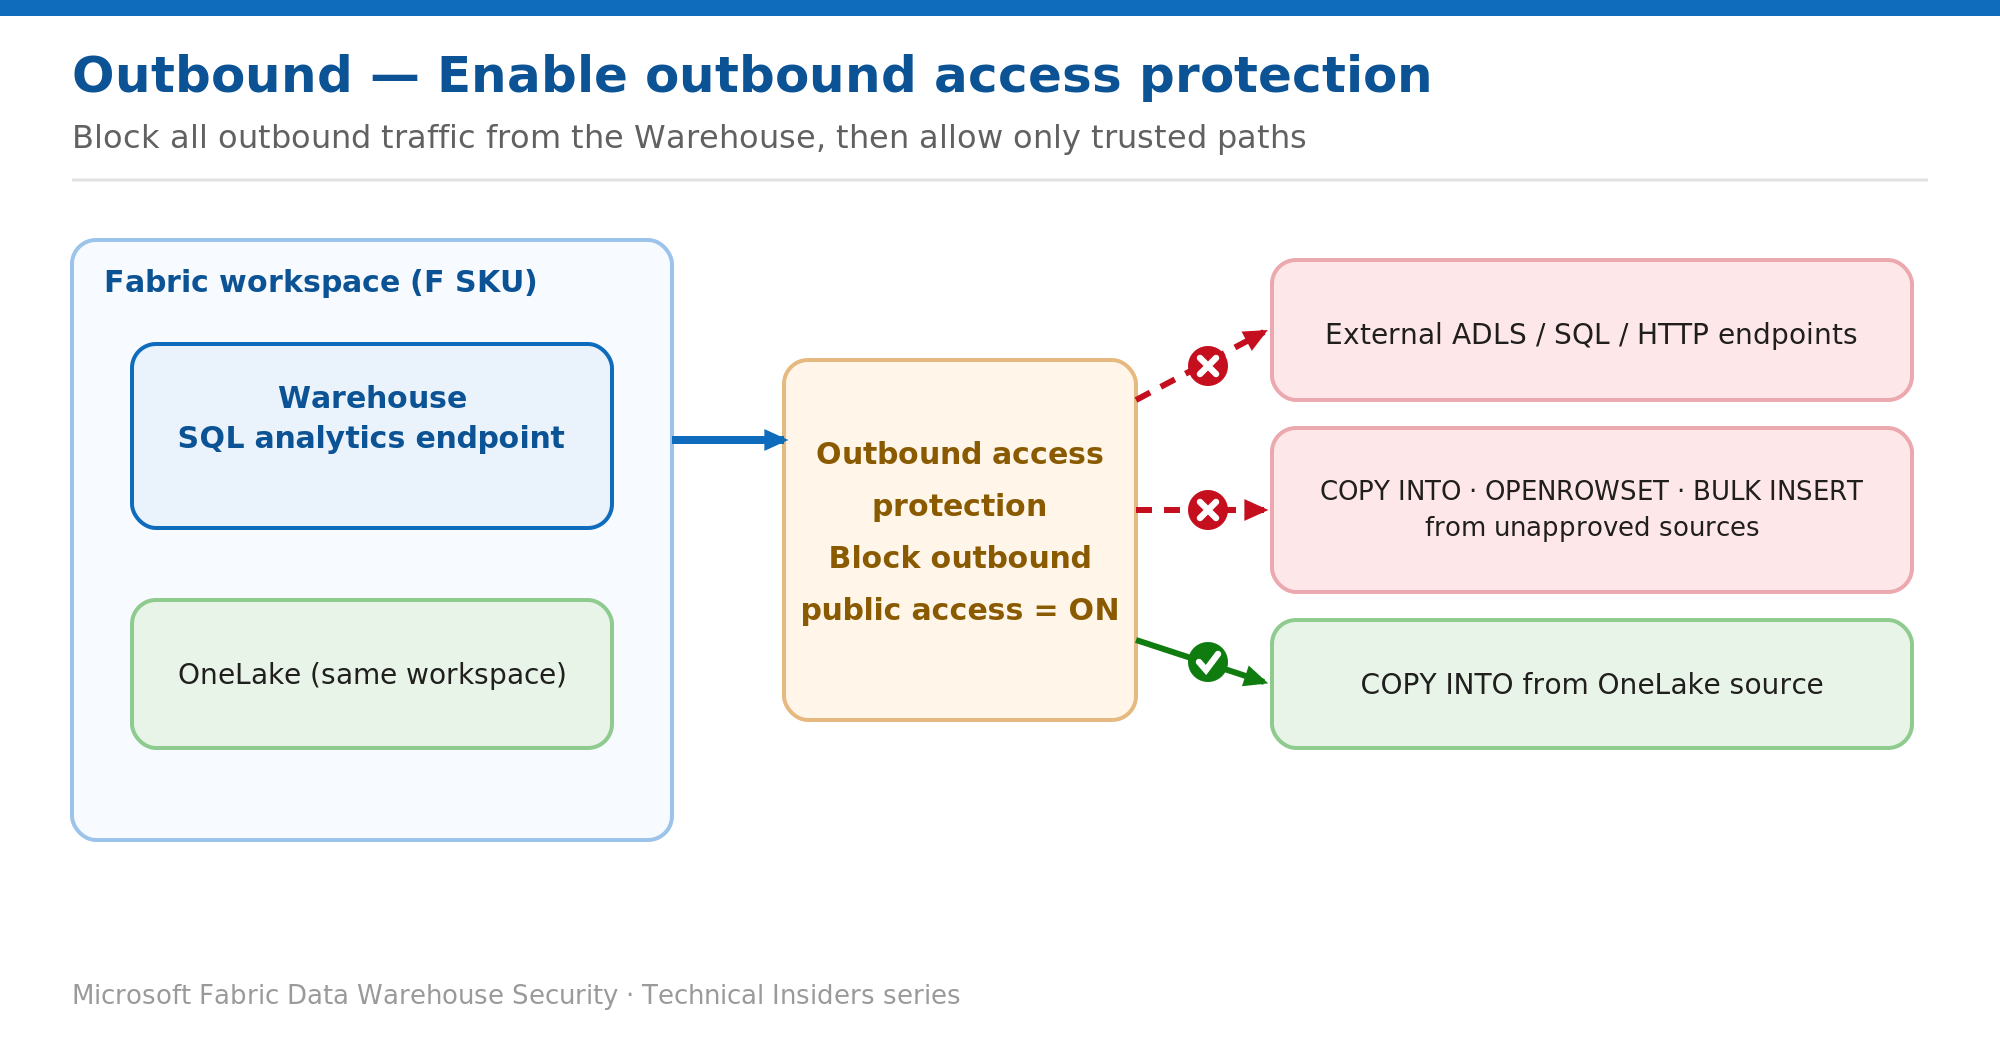
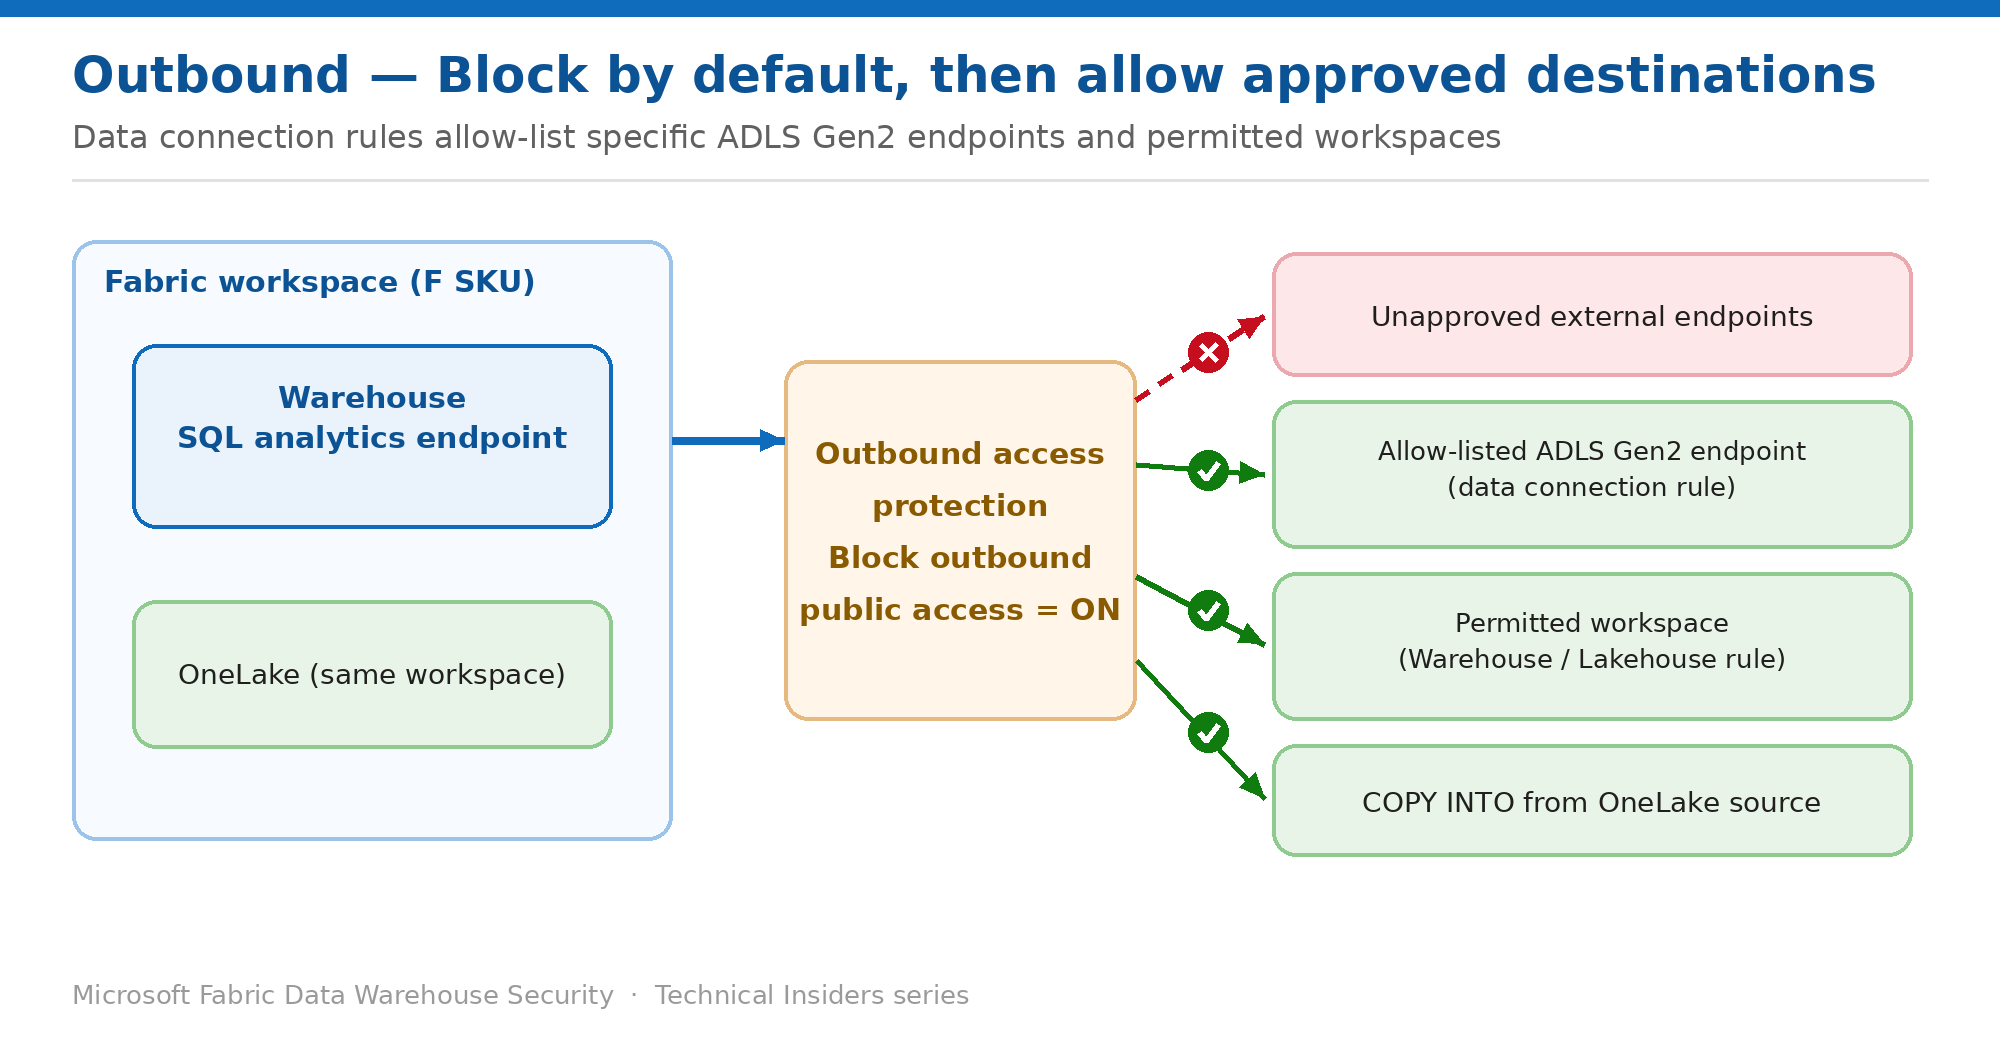
updates

diff --git a/Fabric-DW-Security-21-Governance-SQL-Audit-Logs.md b/Fabric-DW-Security-21-Governance-SQL-Audit-Logs.md
@@ -14,10 +14,13 @@ order: 21
 
 This post shows you how to enable and scope **SQL audit logs** on a Fabric Warehouse so database events — sign-ins, DML and DDL, and permission changes — are captured for later review and compliance.
 
+It then puts the log to work: a step-by-step **forensic analysis** workflow for reconstructing an incident — who connected, from which IP, what they ran, and how to preserve the evidence.
+
 ## What you'll set up
 
 - SQL audit logging enabled on the Warehouse.
 - Event categories scoped to what you actually need to retain.
+- A repeatable **forensic workflow** — access timeline, principal activity, abuse patterns, and evidence preservation.
 
 ![Figure 1 — Warehouse events are captured to the SQL audit log with configurable event categories and retention.](images/fabric-dw-security-21.png)
 
@@ -41,10 +44,76 @@ This post shows you how to enable and scope **SQL audit logs** on a Fabric Wareh
 - Query the captured audit events to review who performed which actions on the Warehouse.
 - Correlate audit events with query activity (see the monitoring post) to reconstruct a full picture.
 
+Read the audit file with `sys.fn_get_audit_file_v2`, bounding the window so you only scan the period you care about:
+
+```sql
+SELECT event_time,
+       action_id,
+       succeeded,
+       server_principal_name,
+       client_ip,
+       application_name,
+       statement
+FROM sys.fn_get_audit_file_v2(
+        '<audit-log-path>', DEFAULT, DEFAULT,
+        DATEADD(DAY, -7, SYSUTCDATETIME()), SYSUTCDATETIME())
+ORDER BY event_time DESC;
+```
+
+## Step 3 — Use the log for forensic analysis
+
+Retention is only half the value. The reason to capture these events is to answer investigative questions later — who touched the data, from where, and what exactly did they run. Work the timeline in this order.
+
+### 1. Establish the access timeline
+
+Start with authentication. Successful and failed logins tell you when a principal arrived and from which address — the anchor for everything that follows.
+
+```sql
+SELECT event_time, succeeded, server_principal_name, client_ip, application_name
+FROM sys.fn_get_audit_file_v2(
+        '<audit-log-path>', DEFAULT, DEFAULT,
+        @start_time, @end_time)
+WHERE action_id IN ('LGIS','LGIF')   -- login succeeded / failed
+ORDER BY event_time;
+```
+
+- A burst of `LGIF` events from one address is a credential-guessing signal.
+- An `LGIS` from an unexpected `client_ip` or `application_name` is your pivot point — carry that principal and time window into the next query.
+
+### 2. Reconstruct what the principal did
+
+With the principal and window fixed, pull the statements executed in that session to see exactly which objects were read or changed.
+
+```sql
+SELECT event_time, action_id, object_name, statement, affected_rows
+FROM sys.fn_get_audit_file_v2(
+        '<audit-log-path>', DEFAULT, DEFAULT,
+        @start_time, @end_time)
+WHERE server_principal_name = @principal
+ORDER BY event_time;
+```
+
+### 3. Look for the specific abuse patterns
+
+- **Privilege escalation** — `GRANT`, `ALTER ROLE`, or role-membership changes, especially self-granted.
+- **Bulk extraction** — high `affected_rows` on sensitive tables, or repeated large `SELECT`s outside business hours.
+- **Security-control tampering** — changes to RLS policies, masking definitions, or audit settings themselves.
+- **Schema changes** — unexpected `DROP` / `ALTER` against production objects.
+
+### 4. Preserve and correlate the evidence
+
+1. Export the filtered result set to an immutable location before the retention window or the investigation moves on.
+2. Record the exact query, the time window, and the audit-log path used, so a third party can reproduce your result.
+3. Correlate the `client_ip` with **Entra sign-in logs** to tie the database session to a device and Conditional Access outcome (see Post 3).
+4. Correlate `event_time` with `queryinsights` history (see Post 24) to recover full query text and duration where the audit statement is truncated.
+
+> **Make this possible before you need it** — Forensics only works on events you were already capturing. If **Events to record** is scoped too narrowly, the evidence simply won't exist after the fact — capture logins, permission changes, and DDL as a baseline even when you exclude high-volume DML.
+
 ## Validate
 
 - Perform an audited action (for example, a permission change) and confirm it appears in the audit logs.
 - Confirm the enabled event categories match your compliance requirements.
+- Run the login-timeline query above and confirm your own test session appears with the expected principal and client IP.
 
 ## Limitations & gotchas
 

diff --git a/README.md b/README.md
@@ -13,7 +13,7 @@ Each post is a self-contained how-to (prerequisites → steps → validation →
 - [Lock the Warehouse SQL Endpoint Behind Workspace-Level Private Links](Fabric-DW-Security-01-Inbound-Private-Links.md) — Route inbound Warehouse connections over Azure Private Link and shut off the public internet.
 - [Restrict the Warehouse to Approved IPs with Workspace Firewall Rules](Fabric-DW-Security-02-Inbound-IP-Firewall.md) — Permit inbound Warehouse connections only from your corporate egress and branch ranges.
 - [Gate Warehouse Sign-ins with Microsoft Entra Conditional Access](Fabric-DW-Security-03-Inbound-Conditional-Access.md) — Require MFA, compliant devices, and trusted locations before any Warehouse connection.
-- [Stop Warehouse Data Exfiltration with Outbound Access Protection](Fabric-DW-Security-04-Outbound-Access-Protection.md) — Block the Warehouse and SQL analytics endpoint from reaching unapproved external destinations.
+- [Stop Warehouse Data Exfiltration with Outbound Access Protection](Fabric-DW-Security-04-Outbound-Access-Protection.md) — Block the Warehouse and SQL analytics endpoint by default, then allow only approved destinations.
 - [Load Data into a Protected Warehouse with the OneLake Ingestion Pattern](Fabric-DW-Security-05-Outbound-Ingestion-Patterns.md) — Keep ingesting after outbound access protection is on — using OneLake as the supported source.
 
 ### Layer 2 — Identity & access
@@ -47,6 +47,10 @@ Each post is a self-contained how-to (prerequisites → steps → validation →
 - [Control Microsoft Access with Customer Lockbox](Fabric-DW-Security-23-Governance-Customer-Lockbox.md) — Require explicit approval before Microsoft engineers can access your data.
 - [Monitor Warehouse Activity with Query Insights and DMVs](Fabric-DW-Security-24-Governance-Monitor-Activity.md) — Track performance and user activity from built-in views.
 - [Govern the Warehouse with Microsoft Purview](Fabric-DW-Security-25-Governance-Purview.md) — Discover, classify, trace lineage, and endorse across your data estate.
+
+## Suggested publishing cadence
+
+Publish in numbered order (01 → 25) so the audience builds understanding foundation-up. **Weekly** is recommended (~6 months); bi-weekly (~12 months) suits a lighter schedule; a five-day sprint per layer suits a launch moment.
 
 ---
 

diff --git a/Fabric-DW-Security-03-Inbound-Conditional-Access.md b/Fabric-DW-Security-03-Inbound-Conditional-Access.md
@@ -58,6 +58,29 @@ For more detail on how this option works, see:
 - Sign in from a **compliant device** after MFA — access is granted and the Warehouse connects.
 - Use the Entra **sign-in logs** and the Conditional Access **What If** tool to confirm which policy applied.
 
+### Confirm the connection in SQL audit logs
+
+Entra sign-in logs prove the policy fired. To close the loop at the data layer — and show that the session which reached the Warehouse is the one the policy allowed — read the SQL audit log and check the principal and client IP that actually connected.
+
+1. Make sure SQL audit logs are enabled on the warehouse (full setup in Post 21).
+2. Connect to the Warehouse and run the query below to list recent successful logins with their source IP.
+3. Confirm each connection maps to an expected user and an approved network location — and that attempts you blocked during the test above do **not** appear as successful sessions.
+
+```sql
+SELECT event_time,
+       succeeded,
+       server_principal_name,
+       client_ip,
+       application_name
+FROM sys.fn_get_audit_file_v2(
+        '<audit-log-path>', DEFAULT, DEFAULT,
+        DATEADD(HOUR, -24, SYSUTCDATETIME()), SYSUTCDATETIME())
+WHERE action_id = 'LGIS'   -- successful login
+ORDER BY event_time DESC;
+```
+
+> **Nice to have** — This is an observability add-on, not a requirement for Conditional Access to work. Post 21 covers audit log configuration, retention, and forensic analysis in full.
+
 ## Limitations & gotchas
 
 - Use **one common policy** across the five resources. If you already have a Power BI policy, add these resources to it rather than creating a competing policy.
@@ -74,3 +97,4 @@ For more detail on how this option works, see:
 
 - [Conditional Access in Fabric — Microsoft Learn](https://learn.microsoft.com/en-us/fabric/security/security-conditional-access)
 - [Protect inbound traffic to Microsoft Fabric — Microsoft Learn](https://learn.microsoft.com/en-us/fabric/security/protect-inbound-traffic)
+- [Configure SQL audit logs in Fabric Data Warehouse — Microsoft Learn](https://learn.microsoft.com/en-us/fabric/data-warehouse/configure-sql-audit-logs)

diff --git a/Fabric-DW-Security-00-Series-Index-and-Publishing-Guide.md b/Fabric-DW-Security-00-Series-Index-and-Publishing-Guide.md
@@ -76,3 +76,18 @@ Files are named `Fabric-DW-Security-NN-….docx` where `NN` runs 01–25, so 
 | 24 | **Monitor Warehouse Activity with Query Insights and DMVs** | queryinsights views + dynamic management views |
 | 25 | **Govern the Warehouse with Microsoft Purview** | Unified Catalog, lineage, endorsement |
 
+## Suggested publishing cadence
+
+Publish in numbered order so the audience builds understanding foundation-up. **Weekly is the recommended cadence** — one post per week keeps the series visible for about six months. A **bi-weekly** cadence (~12 months) suits a lighter schedule; a five-day **sprint per layer** suits a launch or event moment.
+
+| Layer | Posts | Suggested window | Publishing hook |
+| --- | --- | --- | --- |
+| L1 · Network security | 01–05 | Weeks 1–5 | “Lock down the front door” — start with the foundation |
+| L2 · Identity & access | 06–10 | Weeks 6–10 | “Who gets in, and as what” |
+| L3 · Granular data access | 11–15 | Weeks 11–15 | “What they can see once inside” |
+| L4 · Data protection | 16–20 | Weeks 16–20 | “Protecting the data itself” |
+| L5 · Governance & monitoring | 21–25 | Weeks 21–25 | “Prove it, and watch it” |
+
+- Open each layer with a 2–3 sentence framing (why this layer matters) and close each post with a pointer to the next.
+- Consider a short **kickoff/overview** post to launch the series (this five-layer map is its backbone) and a **wrap-up recap** at the end.
+- The numbering leaves room for interstitials — insert a “layer recap” between batches without renumbering the core 25.
